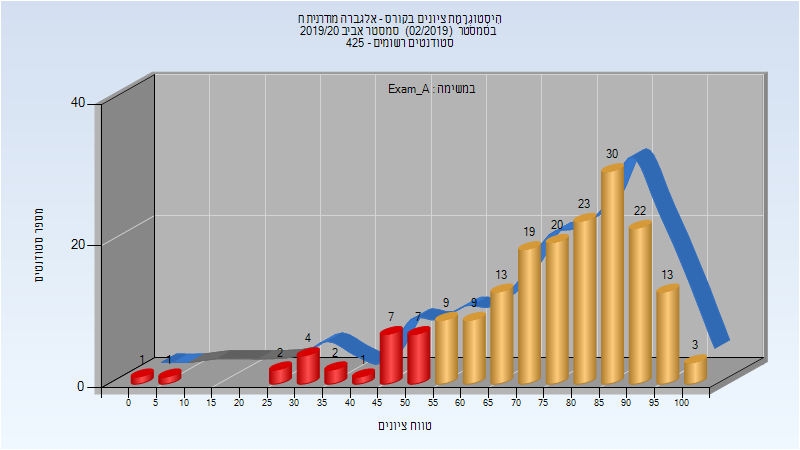
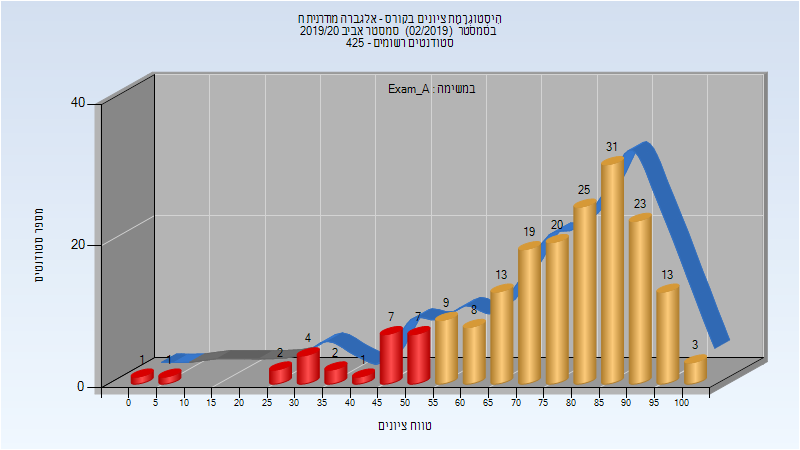
Deploy michael-maltsev/technion-histograms to github.com/michael-maltsev/technion-histograms.git:gh-pages

Changed region(s): [[0.75, 0.3111, 0.875, 0.5289], [0.5625, 0.6533, 0.625, 0.7467], [0.7188, 0.4044, 0.75, 0.4978]]

diff --git a/104134/index.html b/104134/index.html
@@ -2180,13 +2180,13 @@
 </thead>
 <tbody>
 <tr>
-<td>186</td>
-<td>161/25</td>
+<td>189</td>
+<td>164/25</td>
 <td>87</td>
 <td>0</td>
 <td>100</td>
-<td>74.968</td>
-<td>79</td>
+<td>75.265</td>
+<td>80</td>
 </tr>
 </tbody>
 </table>
@@ -2206,12 +2206,12 @@
 </thead>
 <tbody>
 <tr>
-<td>186</td>
-<td>174/12</td>
+<td>189</td>
+<td>177/12</td>
 <td>94</td>
 <td>0</td>
 <td>100</td>
-<td>78.672</td>
+<td>78.926</td>
 <td>83</td>
 </tr>
 </tbody>

diff --git a/104134/README.md b/104134/README.md
@@ -688,7 +688,7 @@
 
 | סטודנטים | עברו/נכשלו | אחוז עוברים | ציון מינימלי | ציון מקסימלי | ממוצע | חציון |
 | ---- | ---- | ---- | ---- | ---- | ---- | ---- |
-| 186 | 161/25 | 87 | 0 | 100 | 74.968 | 79 |
+| 189 | 164/25 | 87 | 0 | 100 | 75.265 | 80 |
 
 ### סופי מועד א'
 
@@ -696,5 +696,5 @@
 
 | סטודנטים | עברו/נכשלו | אחוז עוברים | ציון מינימלי | ציון מקסימלי | ממוצע | חציון |
 | ---- | ---- | ---- | ---- | ---- | ---- | ---- |
-| 186 | 174/12 | 94 | 0 | 100 | 78.672 | 83 |
+| 189 | 177/12 | 94 | 0 | 100 | 78.926 | 83 |
 
